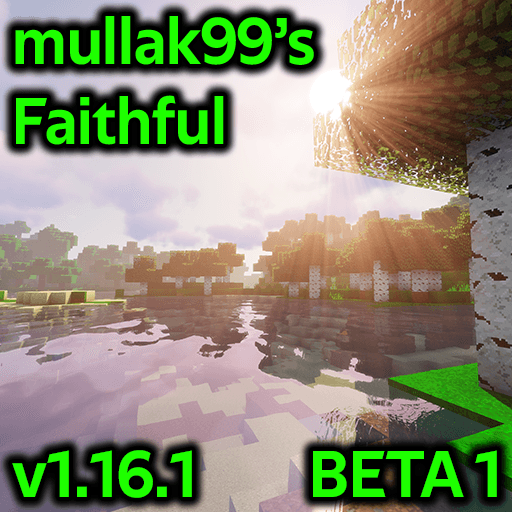
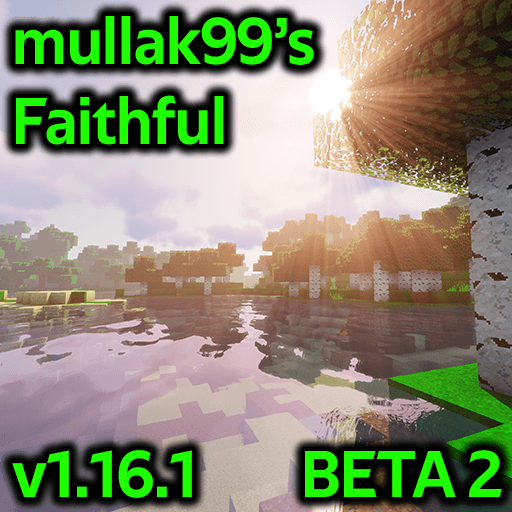
Powered Rail model fix
- Fixed Powered Rail model (non-raised)

Changed region(s): [[0.5625, 0.8438, 1.0, 1.0]]

diff --git a/README.md b/README.md
@@ -1,6 +1,6 @@
 # mullak99's Faithful 32x
 
-**Current Branch Version:** _v1.16.1-BETA1_  
+**Current Branch Version:** _v1.16.1-BETA2_  
 
 ## Branch Breakdown
 
